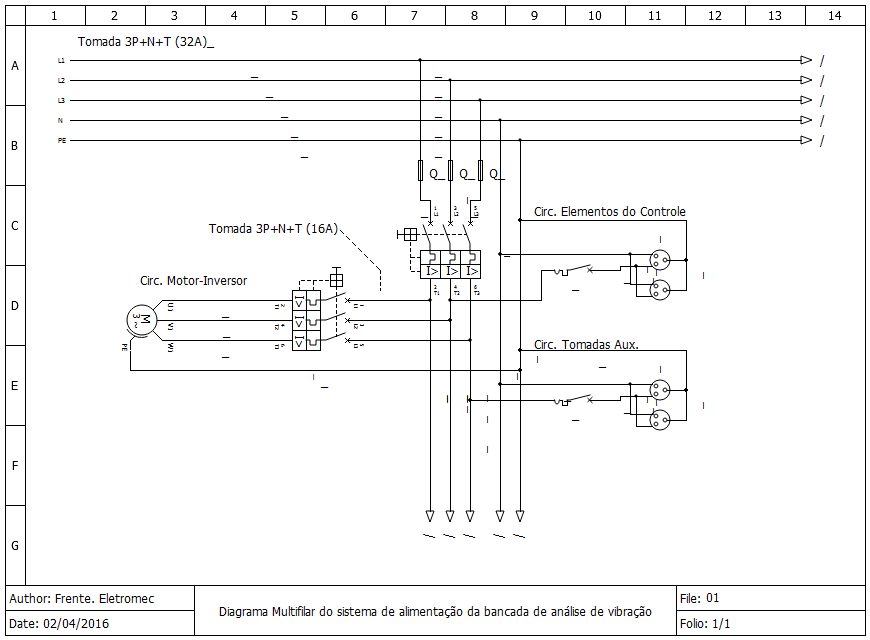
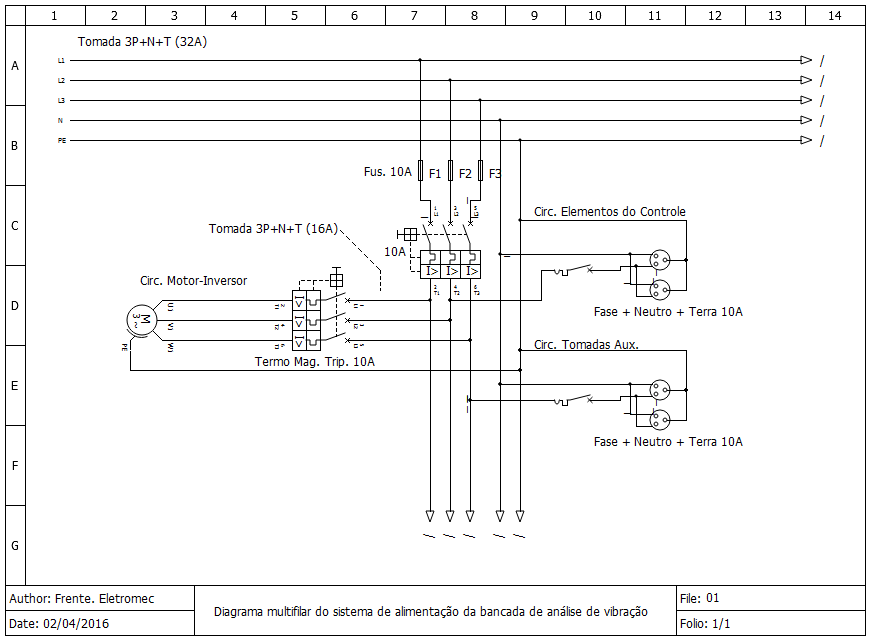
Frente de Energia

diff --git a/editaveis/desenvolvimento_frente_eletromecanica.tex b/editaveis/desenvolvimento_frente_eletromecanica.tex
@@ -2,13 +2,137 @@
 
 Nesta seção é descrito o detalhamento da solução e finalização do módulo de eletromecânica, bem como mudanças que ocorreram e a descrição da integração final com todos os sub-módulos resultando na entrega do produto final previsto na Fase 04.
 
-\subsection{Detalhamento do Módulo}
+\section{Detalhamento do Módulo}
 
-%%%%%%%%%% SUMARIZAR TODO O TRABALHO QUE FOI FEITO ATÉ AGORA PARA ENTREGA O SUBMÓDULO %%%%%%%%%%%%%%
+Para a realização da parte eletromecânica do projeto usou-se um motor de indução trifásico com o intuito de acionar o sistema, de modo a transmitir uma vibração á bancada. Para realizar esta vibração, a velocidade do motor é alterada com o uso de um inversor de frequência e com o uso de polias de diferentes tamanhos acopladas no eixo do motor e em um mancal preso no tampo do bancada.
 
-\subsection{Detalhamento da Integração Final}
+O controle de velocidade do motor realizado pelo inversor de frequência é feito pelo método escalar, no qual a relação de tensão/frequência (V/Hz) é constante. A figura \ref{bancada} mostra um modelo da bancada.
 
-%%%%%%%%%% REALIZAR DETALHAMENTO DO TRABALHO DE INTEGRAÇÃO FINAL %%%%%%%%%%%%%%%
+Após a realização do ponto de controle 2, foram realizadas as medidas construtivas finais de modo a finalizar o projeto eletromecânico. No ponto de controle 2 decidiu-se o método usado para controlar o motor através do inversor de frequência, fez-se a concepção do sistema de proteção, testes de qualidade dos equipamentos, fixou-se o motor à estrutura e adquiriu-se cabos e demais componentes elétricos. Após isto foram tomadas as seguintes medidas construtivas:
+\begin{itemize}
+\item Modelagem do sistema de proteção da bancada;
+\item Aquisição de tomadas e cabos;
+\item Construção do sistema de proteção da bancada;
+\item Ajuste do inversor de frequência com o sistema de proteção;
+\item Construção de púlpito para colocar o sistema de proteção;
+\item Instalação dos fusíveis;
+\item Instalação do sistema de proteção no púlpito.
+\end{itemize}
+
+\begin{figure}[H]
+    \centering      \includegraphics[keepaspectratio=true,scale=1]{figuras/imaginario.png}
+    \caption{CAD da bancada para ensaio de teste de vibração mecânica. Fonte: Autores.}
+    \label{bancada}
+\end{figure}
+
+\begin{figure}[H]
+    \centering      \includegraphics[keepaspectratio=true,scale=1]{figuras/real.png}
+    \caption{Bancada para ensaio de teste de vibração mecânica. Fonte: Autores.}
+    \label{Bancada}
+\end{figure}
+
+\subsection{Sistema de segurança}
+
+    Foi proposto no Relatório 2 que o sistema de proteção fosse construído para garantir a segurança do usuário, dos equipamentos e das equipes de manutenção.
+    O projeto inicial concebia a utilização além dos disjuntores e fusíveis, a utilização de dispositivos anti-surto, no sistema trifásico bem como um diferencial residual, no entanto para fins de minimização de custos, considerando a fase de protótipo, foram considerados apenas a utilização de fusíveis na entrada principal trifásica e disjuntores com função de desarme e dispositivo do manobra nos diferentes circuitos que são: Inversor-motor, controle eletrônico, e tomadas auxiliares, dispostos segundo o diagrama mostrado na Figura \ref{Diagrama de Instalações}, o sistema foi devidamente montado, como pode-se ver na Figura \ref{protecao}.
+
+\begin{figure}[H]
+    \centering      \includegraphics[keepaspectratio=true,scale=0.6]{figuras/Diagrama_Instalacao.png}
+    \caption{Diagrama de Instalações e Sistema de Segurança. Fonte: Autores}
+    \label{Diagrama de Instalações}
+\end{figure}
+
+
+\begin{figure}[H]
+    \centering      \includegraphics[keepaspectratio=true,scale=0.6]{figuras/protecao.png}
+    \caption{Quadro de comando. Fonte: Autores.}
+    \label{protecao}
+\end{figure}
+
+\subsection{Construção do púlpito}
+
+Foi construído um púlpito afim de oferecer ergonomia ao usuário que utilizar a bancada. Neste foi fixado o inversor de frequência juntamente com os disjuntores na caixa de comando. O sistema elaborado pela frente de eletroeletrônica estará na parte interna do púlpito, que será inserido pela porta lateral, e será alimentado pelas tomadas auxiliares que também estão na parte interna do púlpito.
+
+
+\begin{figure}[h]
+    \centering      \includegraphics[keepaspectratio=true,scale=0.9]{figuras/pulpito.png}
+    \caption{Púlpito. Fonte: Autores.}
+    \label{pulpito}
+\end{figure}
+
+\section{Detalhamento da Integração Final}
+
+A frente de eletromecânica teve sua integração de forma direta com as frentes de estrutura e de eletroeletrônica.
+Em relação à frente de estrutura, a integração consistiu na fixação do motor à estrutura montada, em seguida, foi realizado um procedimento para que, após a fixação do motor, houvesse a transmissão da rotação do mesmo para que a bancada sofra os efeitos da vibração mecânica.Conectou-se o motor a um eixo preso por mancais soldados no tampo da mesa, usando-se para isto uma correia encaixada na polia fixa no eixo do motor e no eixo preso nos rolamentos dos mancais, com isso a vibração é entregue à bancada por meio da rotação oferecida pelo motor.
+
+O objetivo da integração com a frente de eletroeletrônica teve por finalidade realizar o controle em malha fechada do inversor, de modo a controlar a frequência da bancada, através do input de 0-10V programado pelos parâmetros do inversor.
+
+Acredita-se que ocorreu um fenômeno chamado curto-circuito entre espiras, cujo não pode ser identificado pela instrumentação convencional. Porém, o motor foi trocado por outro e está operando normalmente. A tabela \ref{tabela_info_motor} mostra os dados elétricos do motor de indução escolhido.
+
+        \begin{table}[h]
+            \begin{center}
+              \begin{tabular}{|p{5cm}|p{5cm}|}
+                \hline
+                \textbf{Dados elétrico do motor} &
+                \\ \hline
+                Carcaça & 71
+                \\ \hline
+                Potência & 0,5HP
+                \\ \hline
+                Frequencia & 60Hz
+                \\ \hline
+                Polos & 4
+                \\ \hline
+                Rotação Nominal & 1720 RPM
+                \\ \hline
+                Escorregamento & 4,44
+                \\ \hline
+                Tensão Nominal & 220/380 V
+                \\ \hline
+                Corrente Nominal & 2.07/1.20 A
+                \\ \hline
+                Corrente de Partida & 10.45/5.99 A
+                \\ \hline
+                LP/LN & 5.0
+                \\ \hline
+                Corrente a vazio & 1.50/0.868 A
+                \\ \hline
+                Conjugado Nominal & 2.06 Nm
+                \\ \hline
+                Conjugado de partida & 240
+                \\ \hline
+                Conjugado Máximo & 250
+                \\ \hline
+                Categoria & N
+                \\ \hline
+                Classe de isolação & B
+                \\ \hline
+                Elevação de temperatura & 80 K
+                \\ \hline
+                Tempo de rotor bloqueado & 18 s (quente)
+                \\ \hline
+                Fator de serviço & 1.15
+                \\ \hline
+                Regime de serviço & S1
+                \\ \hline
+                Temperatura ambiente & -20 graus Celsius - +40 graus Celsius
+                \\ \hline
+                Altitude & 1000 m
+                \\ \hline
+                Proteção & IP55
+                \\ \hline
+                Massa aproximada & 10 Kg
+                \\ \hline
+                Momento de inércia & 0,00082 Kg
+                \\ \hline
+                Nível de ruído & 47 dB(A)
+                \\ \hline
+              \end{tabular}
+              \caption[Informações detalhadas sobre o motor]{Informações detalhadas sobre o motor
+              \protect Fonte: CATÁLOGO WEG }
+            \label{tabela_info_motor}
+        \end{center}
+    \end{table}
 
 % Nesta seção é descrito o detalhamento da solução do módulo de eletromecânica, resultante das duas primeiras fases,
 % e o seu projeto e construção, resultante da Fase 03.

diff --git a/editaveis/gerenciamento.tex b/editaveis/gerenciamento.tex
@@ -48,8 +48,7 @@ Para a Fase 04 (Integração) do projeto optou-se por utilizar iterações, como
 \textit{framework} Scrum \cite{scrum}.
 As iterações tiveram duração aproximada de 1 semana,
 nas quais as atividades foram planejadas no início da iteração de acordo
-com a macro-atividade estabelecida no cronograma. O planejamento das iterações pode ser visto nas Tabelas \ref{tab:iteracao1},
-\ref{tab:iteracao2}, \ref{tab:iteracao3}, \ref{tab:iteracao4} e \ref{tab:iteracao5}.
+com a macro-atividade estabelecida no cronograma. O planejamento das iterações pode ser visto nas Tabelas, \ref{tab:iteracao6}, \ref{tab:iteracao7}, \ref{tab:iteracao8} e \ref{tab:iteracao9}.
 
 \begin{figure}[]
 \centering
@@ -70,7 +69,7 @@ com a macro-atividade estabelecida no cronograma. O planejamento das iterações
 \begin{table}[H]
 \centering
 \caption{Atividades - Iteração 6}
-\label{tab:iteracao1}
+\label{tab:iteracao6}
 \begin{tabular}{|l|l|}
 \hline
 \multicolumn{1}{|c|}{\textbf{Início da Iteração}} & \multicolumn{1}{c|}{04/11}                                                                                                                                                                                                                                        \\ \hline
@@ -86,7 +85,7 @@ com a macro-atividade estabelecida no cronograma. O planejamento das iterações
 \begin{table}[H]
 \centering
 \caption{Atividades - Iteração 7}
-\label{tab:iteracao1}
+\label{tab:iteracao7}
 \begin{tabular}{|l|l|}
 \hline
 \multicolumn{1}{|c|}{\textbf{Início da Iteração}} & \multicolumn{1}{c|}{11/11}                                                                                                                                                                                                                                        \\ \hline
@@ -102,7 +101,7 @@ com a macro-atividade estabelecida no cronograma. O planejamento das iterações
 \begin{table}[H]
 \centering
 \caption{Atividades - Iteração 8}
-\label{tab:iteracao1}
+\label{tab:iteracao8}
 \begin{tabular}{|l|l|}
 \hline
 \multicolumn{1}{|c|}{\textbf{Início da Iteração}} & \multicolumn{1}{c|}{18/11}                                                                                                                                                                                                                                        \\ \hline
@@ -118,7 +117,7 @@ com a macro-atividade estabelecida no cronograma. O planejamento das iterações
 \begin{table}[H]
 \centering
 \caption{Atividades - Iteração 9}
-\label{tab:iteracao1}
+\label{tab:iteracao9}
 \begin{tabular}{|l|l|}
 \hline
 \multicolumn{1}{|c|}{\textbf{Início da Iteração}} & \multicolumn{1}{c|}{25/11}                                                                                                                                                                                                                                        \\ \hline
